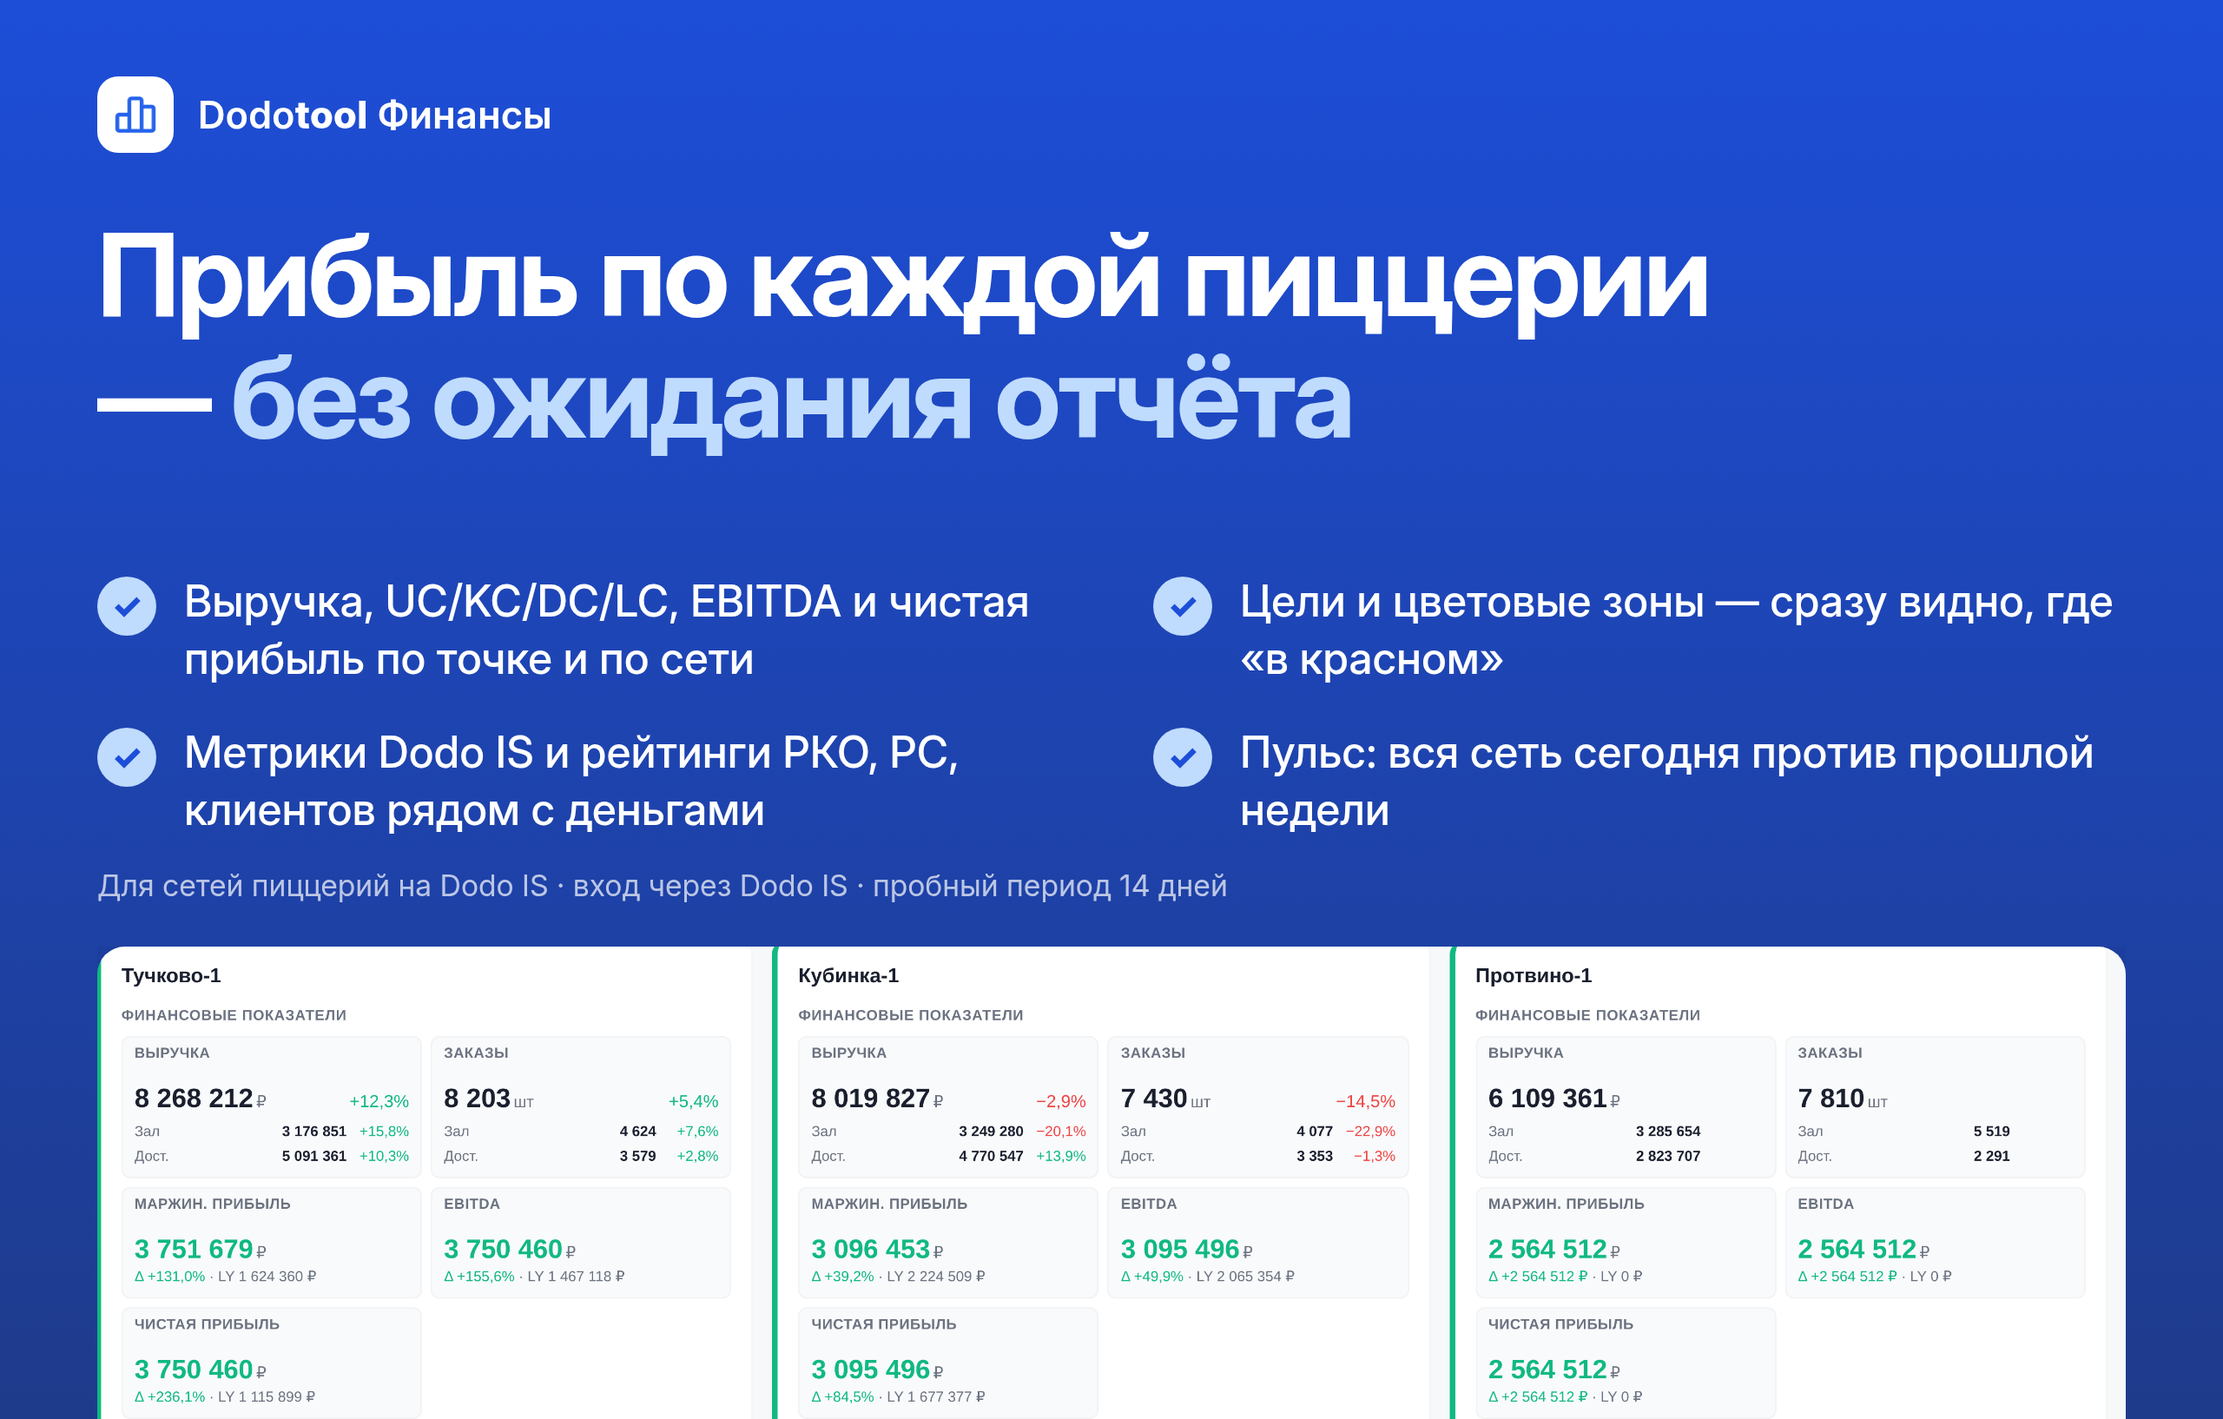
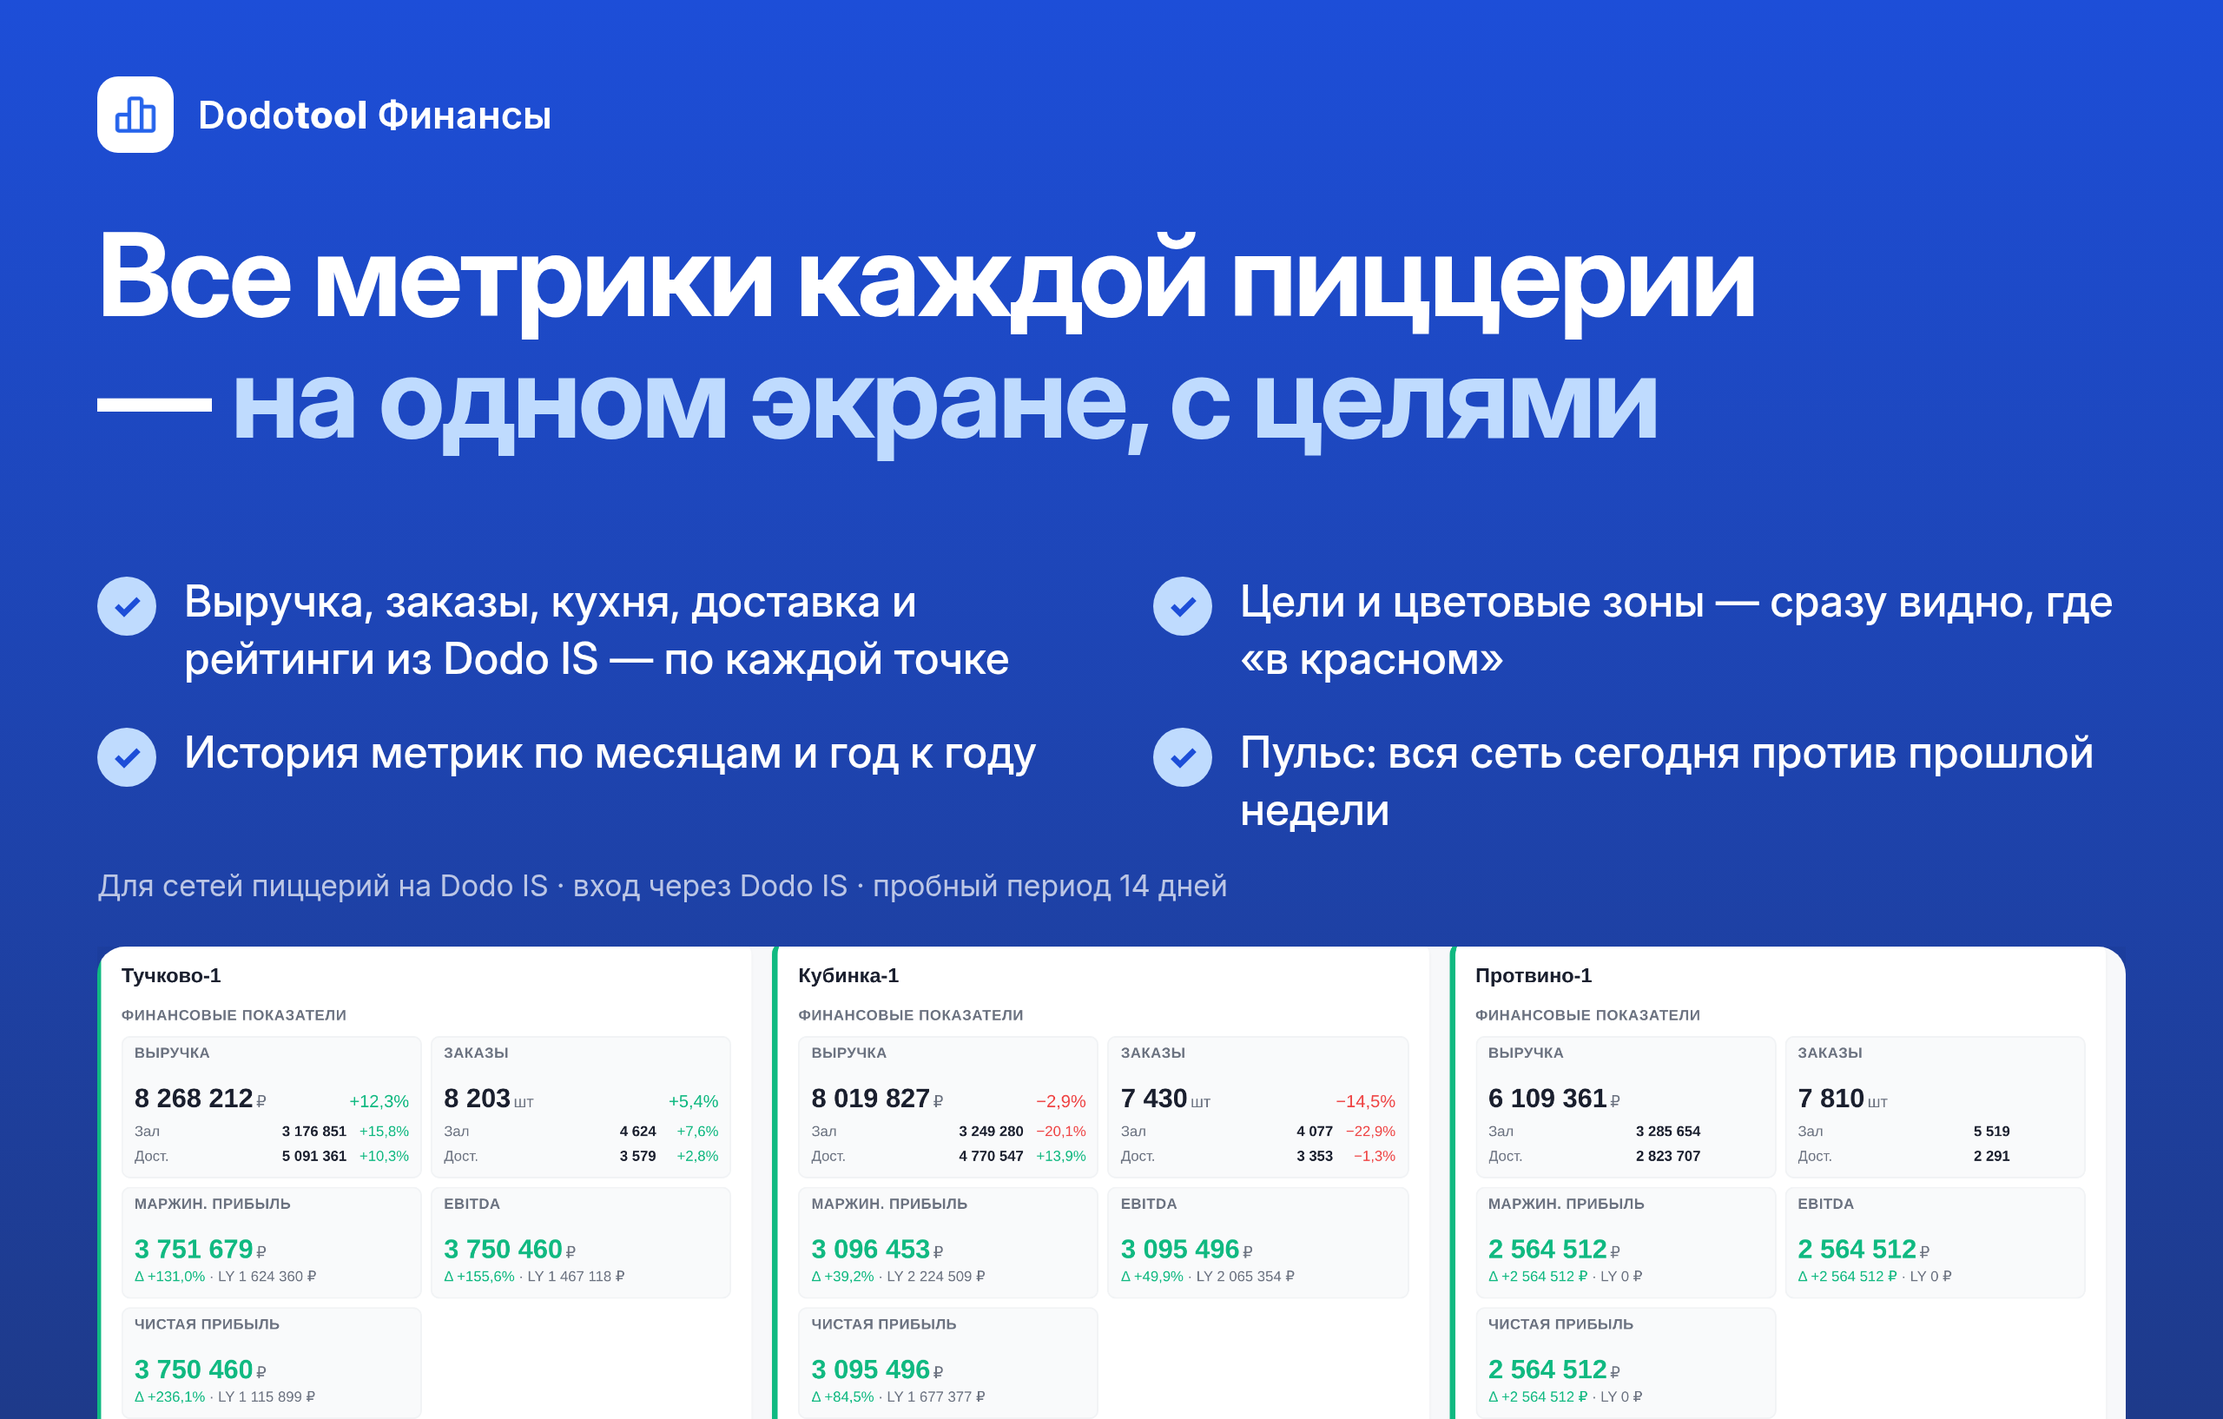
docs(marketplace): Финансы card v2 — Dodo IS-first, history frame, prices 1490/990/1990

Changed region(s): [[0.0312, 0.1561, 0.8125, 0.3433], [0.0938, 0.4058, 0.4688, 0.593]]

diff --git a/docs/marketplace/slides/src/compose4.py b/docs/marketplace/slides/src/compose4.py
@@ -37,10 +37,11 @@ def feat(h,sub,img,out,w=1168,top=322):
 which=sys.argv[1]
 F='../fin/'
 if which in('cover','all'):
-    page("<h1>Прибыль по каждой пиццерии — <em>без ожидания отчёта</em></h1>"
-         "<div class='checks'><div class='chk'><i>✓</i>Выручка, UC/KC/DC/LC, EBITDA и чистая прибыль по точке и по сети</div><div class='chk'><i>✓</i>Цели и цветовые зоны — сразу видно, где «в красном»</div><div class='chk'><i>✓</i>Метрики Dodo IS и рейтинги РКО, РС, клиентов рядом с деньгами</div><div class='chk'><i>✓</i>Пульс: вся сеть сегодня против прошлой недели</div></div>"
+    page("<h1>Все метрики каждой пиццерии — <em>на одном экране, с целями</em></h1>"
+         "<div class='checks'><div class='chk'><i>✓</i>Выручка, заказы, кухня, доставка и рейтинги из Dodo IS — по каждой точке</div><div class='chk'><i>✓</i>Цели и цветовые зоны — сразу видно, где «в красном»</div><div class='chk'><i>✓</i>История метрик по месяцам и год к году</div><div class='chk'><i>✓</i>Пульс: вся сеть сегодня против прошлой недели</div></div>"
          "<div class='foot'>Для сетей пиццерий на Dodo IS · вход через Dodo IS · пробный период 14 дней</div><div class='peek'><img src='"+b64(F+'frag-cards.png')+"'></div>",'../fin/f-0-cover.png',cover=True)
-if which in('cards','all'): feat('Карточка месяца по каждой точке — <em>с целями и зонами</em>','Выручка по каналам, маржинальная и чистая прибыль, EBITDA, метрики P&L и Dodo IS. Красное, жёлтое, зелёное — против цели и прошлого года.',F+'frag-cards.png','../fin/f-1-cards.png',w=1168,top=322)
-if which in('pnl','all'): feat('P&L сети по статьям — <em>как в управленческом отчёте</em>','Выручка, переменные и постоянные расходы, маржинальная прибыль по каждой пиццерии и по сети. Раскрытие до статьи, выгрузка в xlsx.',F+'frag-pnl.png','../fin/f-2-pnl.png',w=1168,top=322)
-if which in('yoy','all'): feat('Год к году — <em>по месяцам и по каналам</em>','Закрытые месяцы хранятся, текущий обновляется ежедневно. Доставка, ресторан, самовывоз — против того же месяца прошлого года.',F+'frag-charts-yoy.png','../fin/f-3-yoy.png',w=1168,top=322)
-if which in('pulse','all'): feat('Пульс: вся сеть сегодня — <em>против прошлой недели</em>','Выручка каждой пиццерии, активные стопы, скорость кухни и доставки, месяц LFL. За 30 секунд понятно, куда звонить.',F+'frag-board.png','../fin/f-4-pulse.png',w=1168,top=322)
+if which in('cards','all'): feat('Карточка месяца по каждой точке — <em>с целями и зонами</em>','Выручка по каналам, заказы, метрики кухни и доставки, рейтинги клиентов, РКО и РС. Красное, жёлтое, зелёное — против цели и прошлого года.',F+'frag-cards.png','../fin/f-1-cards.png',w=1168,top=322)
+if which in('history','all'): feat('История метрик — <em>по месяцам, одним кликом</em>','Клик по пиццерии — все её метрики за выбранный период с трендом: где растёт, где проседает.',F+'frag-history.png','../fin/f-2-history.png',w=1100,top=322)
+if which in('pulse','all'): feat('Пульс: вся сеть сегодня — <em>против прошлой недели</em>','Выручка каждой пиццерии, активные стопы, скорость кухни и доставки, месяц LFL. За 30 секунд понятно, куда звонить.',F+'frag-board.png','../fin/f-3-pulse.png',w=1168,top=322)
+if which in('yoy','all'): feat('Год к году — <em>по месяцам и по каналам</em>','Закрытые месяцы хранятся, текущий обновляется ежедневно. Доставка, ресторан, самовывоз — против того же месяца прошлого года.',F+'frag-charts-yoy.png','../fin/f-4-yoy.png',w=1168,top=322)
+if which in('pnl','all'): feat('Полный P&L по статьям — <em>если у вас PlanFact</em>','Себестоимость, ФОТ, маржинальная и чистая прибыль по каждой пиццерии и по сети. Без PlanFact — Lite-режим на данных Dodo IS.',F+'frag-pnl.png','../fin/f-5-pnl.png',w=1168,top=322)

diff --git a/docs/marketplace/slides/src/shoot_pm.py b/docs/marketplace/slides/src/shoot_pm.py
@@ -1,0 +1,23 @@
+import time, sys
+sys.argv=['x','x']
+exec(open('shoot3.py').read().split("import sys\njob=")[0])
+with sync_playwright() as p:
+    b,c=ctx(p,1440,900); pg=c.new_page()
+    pg.goto('https://pnl.dodotool.ru/', wait_until='networkidle', timeout=120000); time.sleep(2)
+    pg.click('button[data-mode="period"]'); time.sleep(1)
+    pg.evaluate("()=>{const f=document.getElementById('monthSelectFrom'); f.value='2026-03'; f.dispatchEvent(new Event('change',{bubbles:true})); const t=document.getElementById('monthSelectTo'); t.value='2026-08'; t.dispatchEvent(new Event('change',{bubbles:true}));}")
+    pg.evaluate("()=>{document.querySelectorAll('input.js-grp-toggle').forEach(cb=>{ if(!cb.checked) cb.click(); }); document.querySelectorAll('input[data-pid]').forEach(cb=>{ if(!cb.checked) cb.click(); }); document.getElementById('projApplyBtn').click();}")
+    time.sleep(1); pg.click('#periodApplyBtn'); time.sleep(8); pg.wait_for_load_state('networkidle', timeout=180000); time.sleep(20)
+    pg.evaluate("()=>{document.body.classList.remove('drawer-open'); const bd=document.getElementById('drawerBackdrop'); if(bd) bd.hidden=true;}")
+    print('cards', pg.evaluate("()=>document.querySelectorAll('.card.card-clickable').length"))
+    pg.screenshot(path='pm_before.png')
+    print('mode', pg.evaluate("()=>[document.querySelectorAll('.card').length, document.querySelector('.mode-toggle-btn.is-active')?.textContent, document.getElementById('dateStart').value, document.getElementById('dateEnd').value]"))
+    pg.evaluate("()=>{const c=[...document.querySelectorAll('.card')].find(x=>/Тучково/.test(x.textContent)); c.click();}")
+    time.sleep(6)
+    fixname(pg)
+    pg.screenshot(path='pm_full.png', full_page=True)
+    box=pg.evaluate("()=>{const m=document.querySelector('#pmModal .modal-content'); const r=m.getBoundingClientRect(); return [r.x,r.y,r.width,r.height, document.querySelector('#pmModal').scrollTop];}")
+    print('box',box)
+    pg.locator('#pmModal .modal-content').screenshot(path='pm_modal.png')
+    b.close()
+print('done')

diff --git a/docs/marketplace/fin-card-status.md b/docs/marketplace/fin-card-status.md
@@ -1,4 +1,4 @@
-# Карточка «Dodotool Финансы» — состояние на 2026-09-05
+# Карточка «Dodotool Финансы» — состояние на 2026-09-05 (v2, вечер)
 
 Приложение `01a072b74fa174b0aec61a57b072b695`, страница
 `01a072ccac0d78a18c9783b375d877b1`, OAuth-клиент `cyuqZ` (Authorization Code
@@ -43,3 +43,34 @@ Flow). Название выбрал Андрей («Финансы» вмест
 - Наблюдение: при открытии страницы приложения фронт кабинета делает
   `POST /manage/api-client/generate-secret` — секрет `cyuqZ` брать из
   кабинета непосредственно перед прописыванием в sa и проверять токеном.
+
+## v2 (2026-09-05, вечер) — переупаковка «от Dodo IS», не от PlanFact
+
+Андрей: франчайзи с PlanFact мало (потому и родился Lite) — P&L не
+киллер-фича. Ядро = метрики каждой пиццерии из Dodo IS с целями и зонами +
+история метрик по месяцам (клик по карточке в режиме «Период», модалка
+`pmModal`, снята `shoot_pm.py`) + Пульс. PlanFact — «если есть, добавит
+себестоимость, ФОТ и прибыль».
+- Описание (148): «Все метрики каждой пиццерии из Dodo IS на одном экране:
+  выручка, кухня, доставка, рейтинги, история по месяцам, цели и зоны.
+  Пульс: вся сеть сегодня».
+- Карусель: обложка «Все метрики каждой пиццерии — на одном экране, с
+  целями» → карточка → история метрик → Пульс → год к году. P&L-кадр
+  (`f-5-pnl.png`, «если у вас PlanFact») в запасе, в описании — картинкой.
+- «О приложении»: лид от Dodo IS, 7 возможностей, разделы Карточка /
+  История / Пульс / Год к году / «Полный P&L — если у вас PlanFact», 4 FAQ.
+  Инструкция: PlanFact — шаг 4 «по желанию».
+- **Тарифы снижены** (решение делегировано мне): Финансы **1 490**, Пульс
+  990, Финансы и Пульс **1 990** (−20 % от суммы). Ступени 1–5/6–15/16–30/
+  31–45/46+ по тем же коэффициентам ×1,00/0,85/0,70/0,58/0,50: Финансы
+  1 490/1 270/1 040/860/750; Пульс 990/840/690/570/490; пакет
+  1 990/1 690/1 390/1 150/1 000. PDF-сетку обновить перед подачей.
+- Грабли кабинета (важно): после «Удалить» в диалоге карусели загрузки в
+  том же диалоге игнорируются, а «Сохранить изменения» страницы становится
+  no-op — надёжнее править слайдер напрямую: `PUT
+  /privateapi/web/v1/manage/products/pages/content` с телом
+  `{applicationPageId, content:[{alias:'sliders', type:4, content:{value:[ids]},
+  language:'ru', version:N}]}` (id кадра — через `content/media` alias
+  `sliders`); 409 SimultaneousPageContentChange при неверной version, но
+  порядок при этом применился. Editor.js `render()` ~40 с на 30 блоков —
+  вызывать без ожидания save в том же вызове.
